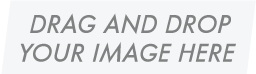
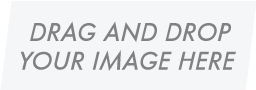
fix image

Changed region(s): [[0.0625, 0.5676, 0.9375, 0.8378], [0.0938, 0.1892, 0.9062, 0.4595]]

diff --git a/static/gifpop/style.css b/static/gifpop/style.css
@@ -336,7 +336,7 @@ h3.filename, #mainpane #subMessage {
     text-indent: 100%;
     white-space: nowrap;
     overflow: hidden;
-    margin: 142px 0 0 209px;
+    margin: 142px 0 0 205px;
 }
 .control-label {
     display: none;
